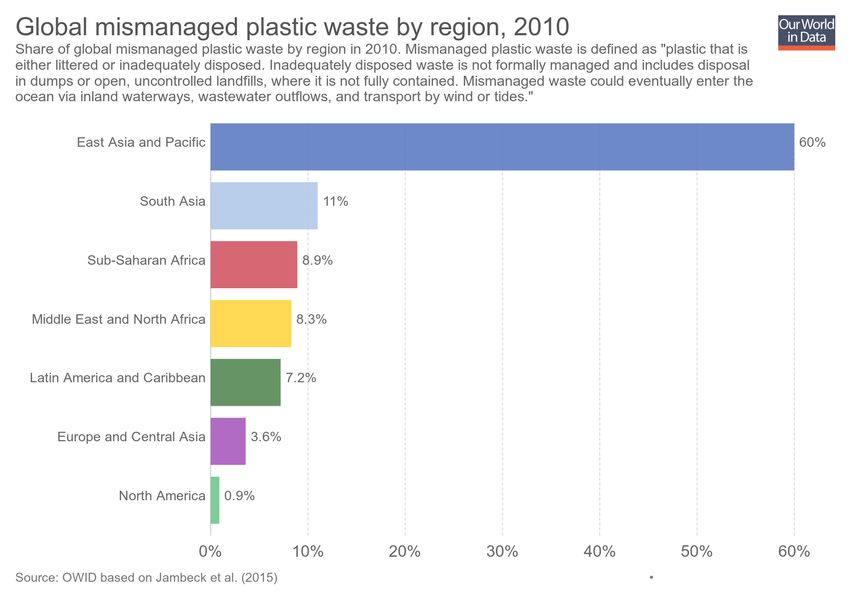
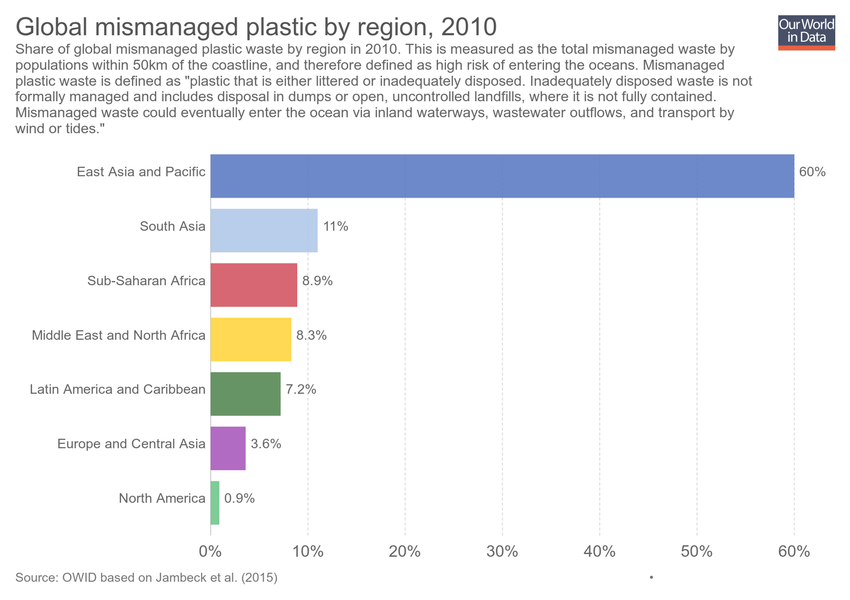
Updating chart mismanaged-plastic-waste-by-region-2010

diff --git a/grapher/mismanaged-plastic-waste-by-region-2010.html b/grapher/mismanaged-plastic-waste-by-region-2010.html
@@ -1,4 +1,4 @@
-<!doctype html><html><head><meta name="viewport" content="width=device-width, initial-scale=1" /><title>Global mismanaged plastic waste by region, 2010 - Our World in Data</title><meta name="description" content="Share of global mismanaged plastic waste by region in 2010. Mismanaged plastic waste is defined as &quot;plastic that is either littered or inadequately disposed. Inadequately disposed waste is not formally managed and includes disposal in dumps or open, uncontrolled landfills, where it is not fully contained. Mismanaged waste could eventually enter the ocean via inland waterways, wastewater outflows, and transport by wind or tides.&quot;" /><link rel="canonical" href="https://ourworldindata.org/grapher/mismanaged-plastic-waste-by-region-2010" /><meta property="fb:app_id" content="1149943818390250" /><meta property="og:url" content="https://ourworldindata.org/grapher/mismanaged-plastic-waste-by-region-2010" /><meta property="og:title" content="Global mismanaged plastic waste by region, 2010" /><meta property="og:description" content="Share of global mismanaged plastic waste by region in 2010. Mismanaged plastic waste is defined as &quot;plastic that is either littered or inadequately disposed. Inadequately disposed waste is not formally managed and includes disposal in dumps or open, uncontrolled landfills, where it is not fully contained. Mismanaged waste could eventually enter the ocean via inland waterways, wastewater outflows, and transport by wind or tides.&quot;" /><meta property="og:image" content="https://ourworldindata.org/grapher/exports/mismanaged-plastic-waste-by-region-2010.png?v=1" /><meta property="og:image:width" content="850" /><meta property="og:image:height" content="600" /><meta property="og:site_name" content="Our World in Data" /><meta name="twitter:card" content="summary_large_image" /><meta name="twitter:site" content="@OurWorldInData" /><meta name="twitter:creator" content="@OurWorldInData" /><meta name="twitter:title" content="Global mismanaged plastic waste by region, 2010" /><meta name="twitter:description" content="Share of global mismanaged plastic waste by region in 2010. Mismanaged plastic waste is defined as &quot;plastic that is either littered or inadequately disposed. Inadequately disposed waste is not formally managed and includes disposal in dumps or open, uncontrolled landfills, where it is not fully contained. Mismanaged waste could eventually enter the ocean via inland waterways, wastewater outflows, and transport by wind or tides.&quot;" /><meta name="twitter:image" content="https://ourworldindata.org/grapher/exports/mismanaged-plastic-waste-by-region-2010.png?v=1" /><style>
+<!doctype html><html><head><meta name="viewport" content="width=device-width, initial-scale=1" /><title>Global mismanaged plastic by region, 2010 - Our World in Data</title><meta name="description" content="Share of global mismanaged plastic waste by region in 2010. This is measured as the total mismanaged waste by populations within 50km of the coastline, and therefore defined as high risk of entering the oceans. Mismanaged plastic waste is defined as &quot;plastic that is either littered or inadequately disposed. Inadequately disposed waste is not formally managed and includes disposal in dumps or open, uncontrolled landfills, where it is not fully contained. Mismanaged waste could eventually enter the ocean via inland waterways, wastewater outflows, and transport by wind or tides.&quot;" /><link rel="canonical" href="https://ourworldindata.org/grapher/mismanaged-plastic-waste-by-region-2010" /><meta property="fb:app_id" content="1149943818390250" /><meta property="og:url" content="https://ourworldindata.org/grapher/mismanaged-plastic-waste-by-region-2010" /><meta property="og:title" content="Global mismanaged plastic by region, 2010" /><meta property="og:description" content="Share of global mismanaged plastic waste by region in 2010. This is measured as the total mismanaged waste by populations within 50km of the coastline, and therefore defined as high risk of entering the oceans. Mismanaged plastic waste is defined as &quot;plastic that is either littered or inadequately disposed. Inadequately disposed waste is not formally managed and includes disposal in dumps or open, uncontrolled landfills, where it is not fully contained. Mismanaged waste could eventually enter the ocean via inland waterways, wastewater outflows, and transport by wind or tides.&quot;" /><meta property="og:image" content="https://ourworldindata.org/grapher/exports/mismanaged-plastic-waste-by-region-2010.png?v=3" /><meta property="og:image:width" content="850" /><meta property="og:image:height" content="600" /><meta property="og:site_name" content="Our World in Data" /><meta name="twitter:card" content="summary_large_image" /><meta name="twitter:site" content="@OurWorldInData" /><meta name="twitter:creator" content="@OurWorldInData" /><meta name="twitter:title" content="Global mismanaged plastic by region, 2010" /><meta name="twitter:description" content="Share of global mismanaged plastic waste by region in 2010. This is measured as the total mismanaged waste by populations within 50km of the coastline, and therefore defined as high risk of entering the oceans. Mismanaged plastic waste is defined as &quot;plastic that is either littered or inadequately disposed. Inadequately disposed waste is not formally managed and includes disposal in dumps or open, uncontrolled landfills, where it is not fully contained. Mismanaged waste could eventually enter the ocean via inland waterways, wastewater outflows, and transport by wind or tides.&quot;" /><meta name="twitter:image" content="https://ourworldindata.org/grapher/exports/mismanaged-plastic-waste-by-region-2010.png?v=3" /><style>
         html, body {
             height: 100%;
             margin: 0;
@@ -20,8 +20,8 @@
         }
     </style><noscript><style>
                     figure { display: none !important; }
-                </style></noscript><link rel="stylesheet" href="https://ourworldindata.org/grapher/assets/commons.bundle.7bc7a3a90f15cac09df5.css" /><link rel="preload" href="/grapher/data/variables/97671.json?v=1" as="fetch" crossorigin /></head><body class="singleChart"><figure data-grapher-src="/grapher/mismanaged-plastic-waste-by-region-2010"></figure><noscript id="fallback"><img src="/grapher/exports/mismanaged-plastic-waste-by-region-2010.svg" /><p>Interactive visualization requires JavaScript</p></noscript><script src="https://cdn.polyfill.io/v2/polyfill.min.js?features=es6,fetch"></script><script src="https://ourworldindata.org/grapher/assets/commons.bundle.7bc7a3a90f15cac09df5.js"></script><script src="https://ourworldindata.org/grapher/assets/charts.bundle.7bc7a3a90f15cac09df5.js"></script><script>
-        var jsonConfig = {"map":{"projection":"World","colorSchemeLabels":[],"colorSchemeValues":[],"customNumericColors":[],"customCategoryColors":{},"customCategoryLabels":{},"customHiddenCategories":{}},"tab":"chart","slug":"mismanaged-plastic-waste-by-region-2010","type":"DiscreteBar","title":"Global mismanaged plastic waste by region, 2010","xAxis":{"scaleType":"linear"},"yAxis":{"min":0,"scaleType":"linear"},"maxTime":2010,"version":1,"subtitle":"Share of global mismanaged plastic waste by region in 2010. Mismanaged plastic waste is defined as \"plastic that is either littered or inadequately disposed. Inadequately disposed waste is not formally managed and includes disposal in dumps or open, uncontrolled landfills, where it is not fully contained. Mismanaged waste could eventually enter the ocean via inland waterways, wastewater outflows, and transport by wind or tides.\"","hasMapTab":false,"stackMode":"absolute","dimensions":[{"display":{},"property":"y","variableId":97671}],"sourceDesc":"OWID based on Jambeck et al. (2015)","hasChartTab":true,"isPublished":true,"selectedData":[{"index":0,"entityId":342},{"index":0,"entityId":300},{"index":0,"entityId":34620},{"index":0,"entityId":301},{"index":0,"entityId":294},{"index":0,"entityId":302},{"index":0,"entityId":289}],"addCountryMode":"disabled","baseColorScheme":"continents","invertColorScheme":true,"hideTitleAnnotation":true,"id":2878};
+                </style></noscript><link rel="stylesheet" href="https://ourworldindata.org/grapher/assets/commons.bundle.7bc7a3a90f15cac09df5.css" /><link rel="preload" href="/grapher/data/variables/97671.json?v=3" as="fetch" crossorigin /></head><body class="singleChart"><figure data-grapher-src="/grapher/mismanaged-plastic-waste-by-region-2010"></figure><noscript id="fallback"><img src="/grapher/exports/mismanaged-plastic-waste-by-region-2010.svg" /><p>Interactive visualization requires JavaScript</p></noscript><script src="https://cdn.polyfill.io/v2/polyfill.min.js?features=es6,fetch"></script><script src="https://ourworldindata.org/grapher/assets/commons.bundle.7bc7a3a90f15cac09df5.js"></script><script src="https://ourworldindata.org/grapher/assets/charts.bundle.7bc7a3a90f15cac09df5.js"></script><script>
+        var jsonConfig = {"id":2878,"map":{"projection":"World","colorSchemeLabels":[],"colorSchemeValues":[],"customNumericColors":[],"customCategoryColors":{},"customCategoryLabels":{},"customHiddenCategories":{}},"tab":"chart","slug":"mismanaged-plastic-waste-by-region-2010","type":"DiscreteBar","title":"Global mismanaged plastic by region, 2010","xAxis":{"scaleType":"linear"},"yAxis":{"min":0,"scaleType":"linear"},"maxTime":2010,"version":3,"subtitle":"Share of global mismanaged plastic waste by region in 2010. This is measured as the total mismanaged waste by populations within 50km of the coastline, and therefore defined as high risk of entering the oceans. Mismanaged plastic waste is defined as \"plastic that is either littered or inadequately disposed. Inadequately disposed waste is not formally managed and includes disposal in dumps or open, uncontrolled landfills, where it is not fully contained. Mismanaged waste could eventually enter the ocean via inland waterways, wastewater outflows, and transport by wind or tides.\"","hasMapTab":false,"stackMode":"absolute","dimensions":[{"display":{},"property":"y","variableId":97671}],"sourceDesc":"OWID based on Jambeck et al. (2015)","hasChartTab":true,"isPublished":true,"selectedData":[{"index":0,"entityId":342},{"index":0,"entityId":300},{"index":0,"entityId":34620},{"index":0,"entityId":301},{"index":0,"entityId":294},{"index":0,"entityId":302},{"index":0,"entityId":289}],"addCountryMode":"disabled","baseColorScheme":"continents","invertColorScheme":true,"hideTitleAnnotation":true};
         var figure = document.getElementsByTagName("figure")[0];
         try {
             window.App = {};
